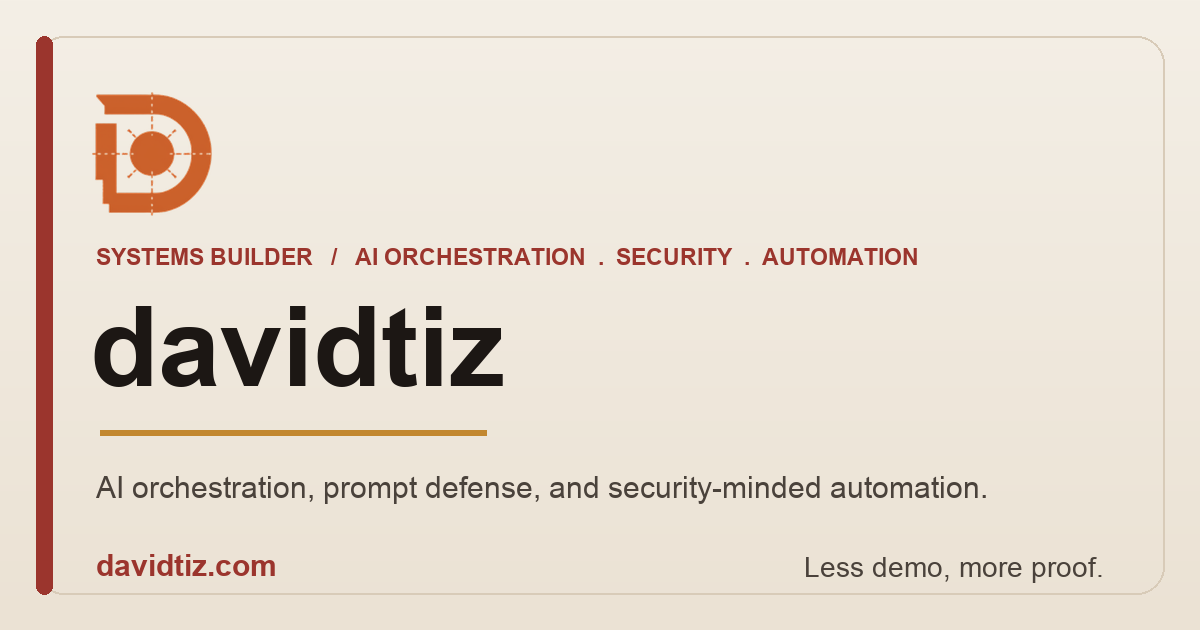
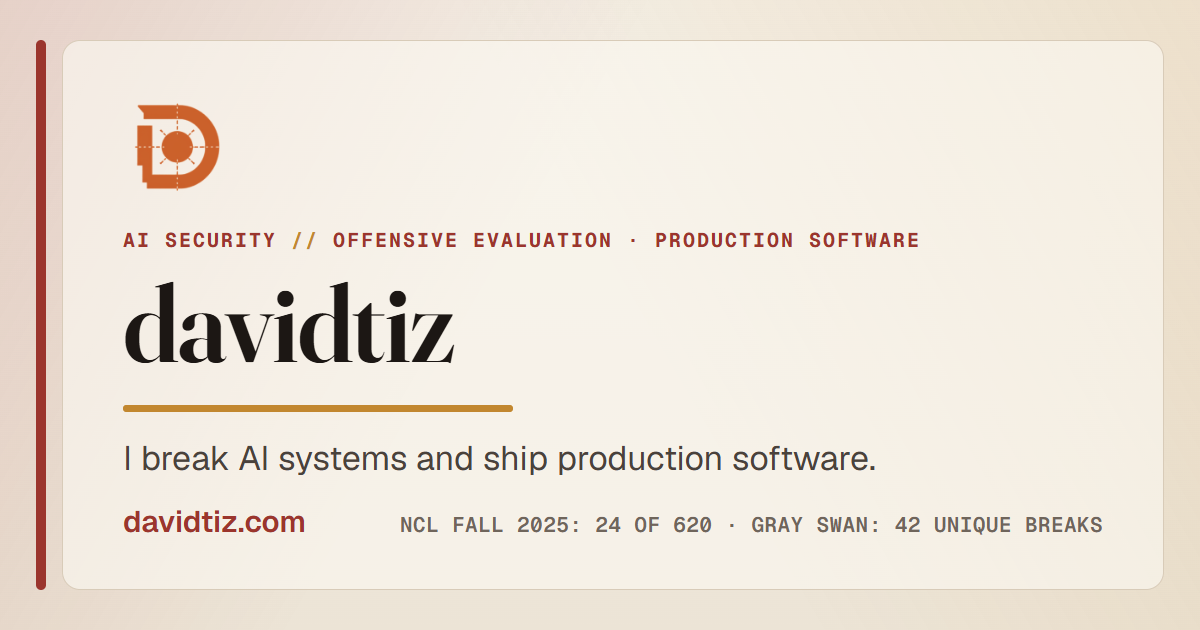
chore(brand): refresh OG card, docs, and manifest to the AI-security identity
- Regenerate public/visuals/david-og-card.png (1200x630) with the new
  eyebrow, identity sentence, and verifiable credential chips
- Sync AGENTS.md with CLAUDE.md (overview, structure, homepage sections,
  copy rules); update README intro/structure and webmanifest description
- Update the identity line in BRAND-BOUNDARY.md and PROJECT-STRUCTURE.md
- Mark IDENTITY-AND-DESIGN-DIRECTION.md and OVERHAUL-PLAN.md positioning
  as superseded (Warm Operator palette/typography stay in force)
- Refresh the Upwork AI-security overview with the verified proof links

Changed region(s): [[0.0, 0.0, 0.925, 0.9651], [0.185, 0.0302, 0.8633, 0.0603], [0.9558, 0.0, 1.0, 0.0603]]

diff --git a/AGENTS.md b/AGENTS.md
@@ -4,9 +4,9 @@ This file provides guidance to Codex when working with code in this repository.
 
 ## Project Overview
 
-Personal portfolio site for David Ortiz, built with Next.js 16 (App Router), React 19, and Tailwind CSS 4, deployed on Vercel. It is a single-page site that presents David as a builder/operator: selected work, how he works, his stack, current learning notes, and a clear contact path.
+Personal portfolio site for David Ortiz, built with Next.js 16 (App Router), React 19, and Tailwind CSS 4, deployed on Vercel. It presents one identity: an AI-security / offensive-evaluation engineer who also ships production software. Proof over description: verified competition results (Gray Swan Arena, NCL), live products (PromptDefenders), CTF writeups, and one shipped client build.
 
-It is NOT an "ecosystem router" or an agency site. Do not reframe it around HighEncode, CSBrainAI, Prompt Defenders, or a multi-site ecosystem. Outside projects may appear only as ordinary portfolio examples, never as the organizing structure.
+It is NOT an "ecosystem router" or an agency site. Do not reframe it around HighEncode, CSBrainAI, Prompt Defenders, or a multi-site ecosystem. Outside projects may appear only as ordinary portfolio examples, never as the organizing structure. SMB web-services sales/scoping belongs to highencodelearning.com; Hernandez Landscape appears here as exactly one secondary proof card/entry.
 
 **Production**: `davidtiz.com`
 **Vercel Project**: `david-ortiz-portfolio` (team: razs-projects-29d4f2e6)
@@ -30,7 +30,7 @@ CI (`.github/workflows/ci.yml`) runs lint → test → build on every push/PR; C
 ## Tech Stack
 - Framework: Next.js 16 (App Router)
 - UI: React 19, Tailwind CSS 4, Framer Motion
-- Fonts: Geist Sans & Geist Mono (`next/font`)
+- Fonts: Geist Sans (body), Geist Mono (labels/status), Fraunces serif display for H1/H2 (`next/font`)
 - Analytics: Vercel Analytics
 - Deployment: Vercel
 
@@ -38,7 +38,7 @@ CI (`.github/workflows/ci.yml`) runs lint → test → build on every push/PR; C
 
 ```
 app/
-  page.tsx          # Home — single-page personal portfolio (client component, dtz-* classes)
+  page.tsx          # Home — thin server component: reads latest writeups, renders components/home-page.tsx
   layout.tsx        # Root layout, fonts, metadata
   globals.css       # Global styles + dtz-* design system (light/dark themes)
   error.tsx         # Page-level error boundary
@@ -50,14 +50,15 @@ app/
   admin/whatsapp-coexistence/ # Admin-key-gated Meta signup launcher
   contact/whatsapp/ # Screened redirect (route.ts) + challenge issuance (challenge/route.ts)
 components/
+  home-page.tsx     # Homepage client component (dtz-* classes, framer-motion reveals)
   ai-assistant.tsx  # Floating chat concierge on the homepage (calls /api/chat)
   contact/          # ProtectedWhatsAppLink — screened WhatsApp redirect (used by homepage + /contact)
   icons/            # brand-icons (used by homepage + /contact)
-data/content.ts     # Shared content + centralized contact (`contact`, `whatsappHref`)
+data/content.ts     # Shared content: heroChips, proofCards, chatConfig, centralized contact (`contact`, `whatsappHref`)
 lib/                # site-config, contact-links, meta-embedded-signup, abuse-store, utils
 public/visuals/     # Hero/workbench images and SVGs
-public/demo/        # Static Spanish local-business demos; hub served at /demo via rewrite,
-                    # linked from the homepage work card
+public/demo/        # Static Spanish local-business demos; hub served at /demo via rewrite
+                    # (no longer linked from the homepage)
 ```
 
 Tests live next to the code as `*.test.ts` (Vitest, node environment; `vitest.config.ts` maps `@/*` and stubs `server-only`).
@@ -68,15 +69,15 @@ Canonical boundary guidance lives in [`docs/ARCHITECTURE-BOUNDARIES.md`](docs/AR
 
 Short version: this app is intentionally small, so do not over-abstract; but do not let business/security rules drift further into framework files without characterization tests. For the WhatsApp redirect lane, preserve challenge validation, full challenge value integrity, replay blocking, sanitization, and redirect message behavior.
 
-## Homepage sections (`app/page.tsx`)
-1. Header — brand, nav (Start / Work / About / Notes / Contact), light/dark toggle
-2. Hero — positioning + CTAs (See selected work, Message me on WhatsApp)
-3. Selected Work — category cards (local business sites, AI workflow, RAG, automation, prompt safety)
-4. About / Operating Style — how David works
-5. Stack — tools he reaches for
-6. Notes / Current Focus — what he's working on now
-7. Contact — WhatsApp-first (screened redirect), email, and GitHub
-8. Footer — WhatsApp · Email · GitHub
+## Homepage sections (`components/home-page.tsx`)
+1. Header — brand + "AI Security Engineer" role label, nav (Work / Process / Writeups / Contact), light/dark toggle
+2. Hero — one identity sentence ("I break AI systems and ship production software.") + 3 credential chips (`data/content.ts` → `heroChips`), CTAs (See the work / How I work)
+3. Selected proof — 4 proof cards, each one artifact + one result + one link (`data/content.ts` → `proofCards`), followed by a compact lab log: 3 newest writeups, read from `content/writeups` at build time by `app/page.tsx`
+4. How I work — 3 process steps
+5. Contact — one line + WhatsApp (screened redirect), email, and GitHub buttons
+6. Footer — WhatsApp · Email · GitHub · route links
+
+Copy rules for this page: every number must be checkable at the linked source; no em-dashes in rendered copy; no filler adjectives; keep body text under ~400 words. `/portfolio` is a proof index across the same categories (Hernandez is one entry, with scoping links to highencodelearning.com).
 
 ## Design / Styling
 - Uses custom `dtz-*` classes defined in `app/globals.css`. Keep this design language: accessible, personal, light/dark, grounded. Not cyberpunk/agency.

diff --git a/copy/upwork_overview_ai_security.md b/copy/upwork_overview_ai_security.md
@@ -1,16 +1,21 @@
 ## Upwork Overview — AI Security & Prompt Defense
 
-You’re shipping AI-powered workflows—Zapier, n8n, custom APIs—and investors or clients keep asking, “How safe is this?” I answer that question with hands-on audits tailored to automation stacks instead of generic compliance checklists. My background combines cloud security, database hardening, and prompt-injection research, so I know exactly where sensitive data leaks or malicious inputs sneak in.
+You're shipping AI-powered workflows (Zapier, n8n, custom APIs, chat agents) and someone keeps asking, "How safe is this?" I answer that question with hands-on testing tailored to your stack instead of generic compliance checklists.
+
+**Verifiable track record:**
+- Gray Swan Arena: 42 unique breaks against frontier-model agents in authorized competitions, including 21 in the Indirect Prompt Injection Q2 2026 wave (76th of 232). Winner's Circle member. Public profile: https://app.grayswan.ai/arena/user/67d3110be637c128d0cca612
+- National Cyber League, Fall 2025 (Experienced bracket): 24th of 620 overall, 1st of 620 in Log Analysis. Official report: https://cyberskyline.com/report/BC2QQYBBP3L3
+- PromptDefenders: my live prompt-injection scanner, https://prompt-defenders.vercel.app
 
 **What I deliver:**
 - Threat modeling for every automation hop (forms, webhooks, chatbots, and data stores).
-- Prompt-injection and exfiltration testing against GPT-4o, OpenRouter, or Anthropic deployments.
+- Prompt-injection and exfiltration testing against your model deployments (OpenAI, Anthropic, OpenRouter, or self-hosted).
 - Access control review (tokens, environment variables, workspace permissions) plus rate-limiting and monitoring recommendations.
 - Action plan prioritized by blast radius, complete with code snippets, policy updates, and logging queries.
 
-We start with a 60-minute architecture session, then I spend 3–4 days in your stack. You’ll get:
+We start with a 60-minute architecture session, then I spend 3-4 days in your stack. You'll get:
 1. **Findings Report:** plain-language summary + technical appendix.
 2. **Mitigation Blueprint:** what to fix now, later, or automate.
 3. **Implementation Support:** optional sprint to patch flows, add guardrails, and set up alerting via Slack/Email/SIEM.
 
-If you’re preparing for enterprise deals, SOC 2, or simply want confidence before launching a chatbot, I can help you prove your AI systems are resilient and trustworthy.
+If you want confidence before launching an AI feature, I break these systems in authorized arenas for sport. Let me try yours before someone else does.

diff --git a/README.md b/README.md
@@ -1,6 +1,6 @@
 # David Ortiz — Personal Portfolio
 
-Personal portfolio site for David Ortiz, built with Next.js, React, Tailwind CSS, and Vercel. It presents selected work, current learning threads, practical web systems, AI-assisted workflow experiments, and contact information. It is a single-page site with anchor navigation (`#start`, `#work`, `#process`, `#stack`, `#notes`, `#contact`), plus a few focused secondary pages (`/contact`, `/portfolio`, `/privacy`, `/demo`).
+Personal site for David Ortiz, built with Next.js, React, Tailwind CSS, and Vercel. It presents one identity: an AI-security / offensive-evaluation engineer who also ships production software, backed by verifiable proof (Gray Swan Arena profile, NCL score report, live products, CTF writeups). The homepage uses anchor navigation (`#start`, `#work`, `#process`, `#contact`), plus focused secondary pages (`/contact`, `/portfolio`, `/writeups`, `/privacy`, `/demo`).
 
 ## Getting Started
 
@@ -36,18 +36,19 @@ Linked to the Vercel project `david-ortiz-portfolio` (team `razs-projects-29d4f2
 
 ```
 app/
-  page.tsx          # Home — single-page personal portfolio (dtz-* design)
+  page.tsx          # Home — thin server component: reads latest writeups, renders components/home-page.tsx
   layout.tsx        # Root layout, fonts, metadata
   globals.css       # Global styles + dtz-* design system, light/dark
   error.tsx         # Page-level error boundary
   global-error.tsx  # App-level error boundary
   not-found.tsx     # Custom 404
   contact/          # Contact hub + screened WhatsApp redirect/challenge
-  portfolio/        # Selected-work detail page
+  portfolio/        # Proof index (competition results, products, writeups, one client build)
+  writeups/         # CTF technique writeups (markdown in content/writeups)
   api/chat/route.ts # AI chat endpoint (used by the homepage assistant)
-components/         # AI assistant, theme shell, contact link, icons
-data/content.ts     # Shared content + centralized contact details
-lib/                # site-config, contact-links, abuse-store, meta helpers
+components/         # Homepage, AI assistant, theme shell, contact link, icons
+data/content.ts     # Shared content (heroChips, proofCards) + centralized contact details
+lib/                # site-config, contact-links, abuse-store, meta helpers, writeups
 public/             # Images, visuals, and the /demo static pages
 ```
 

diff --git a/docs/IDENTITY-AND-DESIGN-DIRECTION.md b/docs/IDENTITY-AND-DESIGN-DIRECTION.md
@@ -1,5 +1,12 @@
 # davidtiz.com — Identity and Design Direction
 
+> **Positioning superseded (2026-07-17).** The site was repositioned around one identity:
+> an AI-security / offensive-evaluation engineer who also ships production software
+> (see `CLAUDE.md` for the current structure and copy rules). The "systems builder"
+> positioning, hero copy, role label, section list, and site map below are historical.
+> The **Warm Operator palette, typography (Fraunces + Geist), and design language remain
+> in force**, as does the personal-vs-business governance.
+
 Status: design direction (owner brief 2026-06-17). This is the serious identity spec for the next version of davidtiz.com. Palette is the chosen "Warm Operator" set (see `BRAND-WARM-OPERATOR-TOKENS-PROPOSAL.md`). Governance: this site stays the personal hub, never an ecosystem router or services marketplace (see `BRAND-BOUNDARY.md`); paid services route to High Encode Learning LLC.
 
 ## The core idea

diff --git a/docs/PROJECT-STRUCTURE.md b/docs/PROJECT-STRUCTURE.md
@@ -7,8 +7,9 @@
 ## What this is
 
 Personal portfolio for David Ortiz — **Next.js 16 (App Router), React 19, Tailwind CSS 4**,
-deployed on Vercel, production domain `davidtiz.com`. It is a personal builder/operator
-portfolio, **not** an agency or multi-site "ecosystem" router (see `CLAUDE.md` / `AGENTS.md`).
+deployed on Vercel, production domain `davidtiz.com`. It presents David as an AI-security /
+offensive-evaluation engineer who also ships production software, **not** an agency or
+multi-site "ecosystem" router (see `CLAUDE.md` / `AGENTS.md`).
 
 The user-facing front page (`/`) is deliberately small. The rest of the surface area is
 secondary routes (contact, portfolio, writeups, privacy, demos) and backend integrations

diff --git a/docs/OVERHAUL-PLAN.md b/docs/OVERHAUL-PLAN.md
@@ -3,6 +3,11 @@
 Date: 2026-06-09
 Status: Executed (D1–D4 complete, 2026-06-10)
 
+> **Note (2026-07-17):** the positioning described in this plan was later superseded by
+> the AI-security repositioning (identity, homepage structure, and /portfolio proof
+> index now documented in `CLAUDE.md`). The brand-boundary governance in this file
+> still applies.
+
 > Execution record: #70 merged and verified in production (D1); `docs/BRAND-BOUNDARY.md`
 > added with CLAUDE.md/AGENTS.md pointers and a clean copy audit (#71, D2+D3);
 > ecosystem-era docs archived to `docs/archive/` (D4). CI green throughout.

diff --git a/docs/BRAND-BOUNDARY.md b/docs/BRAND-BOUNDARY.md
@@ -8,7 +8,8 @@
 
 - David Ortiz's personal home base.
 - A place for selected work, current notes, direct contact, and trust signals.
-- The canonical identity layer for David as a builder/operator.
+- The canonical identity layer for David as an AI-security / offensive-evaluation
+  engineer who also ships production software.
 - WhatsApp-first for contact, with a screened redirect protecting the number.
 
 ## This site is not
